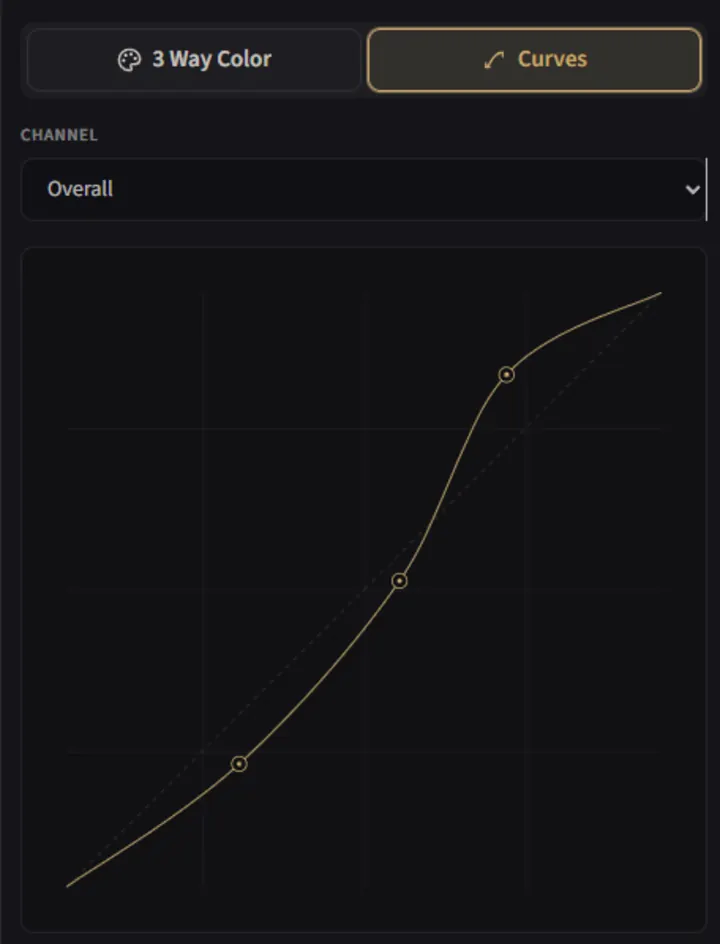
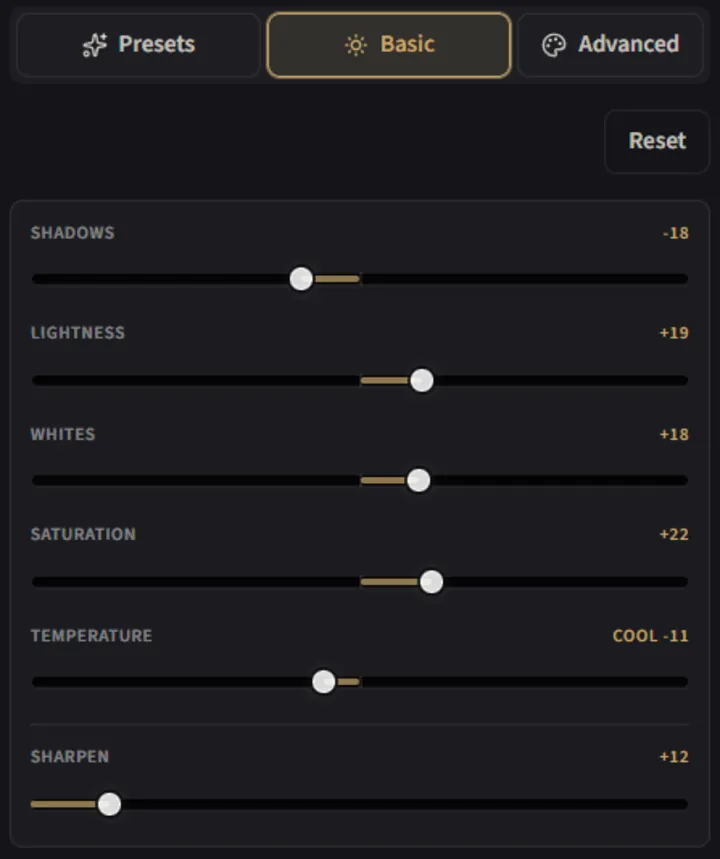
Prioritize color controls in feature cycle

diff --git a/Realtor Photo Lab.html b/Realtor Photo Lab.html
@@ -95,10 +95,10 @@
       </div>
       <div class="feat-lead-v2">
         <div class="feat-lead-img feat-screen color-cycle" aria-label="REAL PHOTO LAB color tools preview">
-          <img class="is-active" src="assets/screenshots/color-workspace.webp" alt="REAL PHOTO LAB color workspace with image preview, presets, color wheels, and tone controls" width="1200" height="819" loading="lazy" decoding="async">
-          <img src="assets/screenshots/color-curves.webp" alt="Curves color correction panel" width="720" height="490" loading="lazy" decoding="async">
-          <img src="assets/screenshots/color-basic.webp" alt="Basic color correction sliders" width="720" height="944" loading="lazy" decoding="async">
+          <img class="is-active" src="assets/screenshots/color-basic.webp" alt="Basic color correction sliders" width="720" height="859" loading="lazy" decoding="async">
+          <img src="assets/screenshots/color-curves.webp" alt="Curves color correction panel" width="720" height="944" loading="lazy" decoding="async">
           <img src="assets/screenshots/color-presets.webp" alt="Color presets panel with auto color and sky pop options" width="720" height="452" loading="lazy" decoding="async">
+          <img src="assets/screenshots/color-wheels.webp" alt="Three-way color wheels for shadows, midtones, and highlights" width="720" height="490" loading="lazy" decoding="async">
         </div>
         <div class="feat-lead-text"><h3 class="feat-lead-title">One-click when it works. <em>Tools when it matters.</em></h3><p class="feat-lead-copy">Apply a fast look, then tune color wheels, curves, presets, masks, layers, and final polish in one focused workspace.</p></div>
       </div>

diff --git a/index.html b/index.html
@@ -95,10 +95,10 @@
       </div>
       <div class="feat-lead-v2">
         <div class="feat-lead-img feat-screen color-cycle" aria-label="REAL PHOTO LAB color tools preview">
-          <img class="is-active" src="assets/screenshots/color-workspace.webp" alt="REAL PHOTO LAB color workspace with image preview, presets, color wheels, and tone controls" width="1200" height="819" loading="lazy" decoding="async">
-          <img src="assets/screenshots/color-curves.webp" alt="Curves color correction panel" width="720" height="490" loading="lazy" decoding="async">
-          <img src="assets/screenshots/color-basic.webp" alt="Basic color correction sliders" width="720" height="944" loading="lazy" decoding="async">
+          <img class="is-active" src="assets/screenshots/color-basic.webp" alt="Basic color correction sliders" width="720" height="859" loading="lazy" decoding="async">
+          <img src="assets/screenshots/color-curves.webp" alt="Curves color correction panel" width="720" height="944" loading="lazy" decoding="async">
           <img src="assets/screenshots/color-presets.webp" alt="Color presets panel with auto color and sky pop options" width="720" height="452" loading="lazy" decoding="async">
+          <img src="assets/screenshots/color-wheels.webp" alt="Three-way color wheels for shadows, midtones, and highlights" width="720" height="490" loading="lazy" decoding="async">
         </div>
         <div class="feat-lead-text"><h3 class="feat-lead-title">One-click when it works. <em>Tools when it matters.</em></h3><p class="feat-lead-copy">Apply a fast look, then tune color wheels, curves, presets, masks, layers, and final polish in one focused workspace.</p></div>
       </div>
